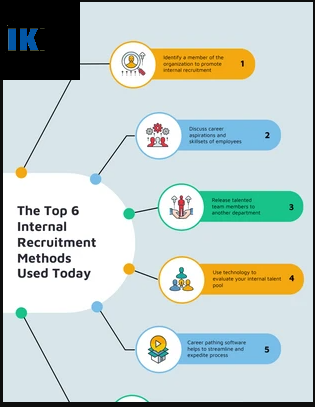
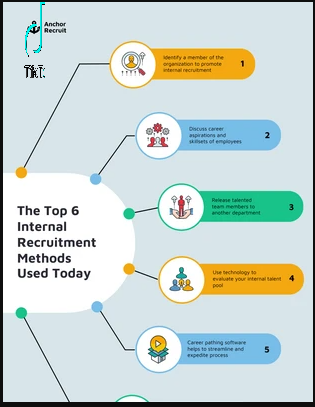
UI and robust

Changed region(s): [[0.0, 0.0, 0.2571, 0.2064]]

diff --git a/templates/displayImage.html b/templates/displayImage.html
@@ -4,14 +4,54 @@
     <meta charset="UTF-8">
     <meta name="viewport" content="width=device-width, initial-scale=1.0">
     <title>Document</title>
+    <style>
+        body {
+        font-family: sans-serif;
+        margin: 0;
+        padding: 20px;
+        }
+
+        h1 {
+        text-align: center;
+        margin-bottom: 20px;
+        }
+
+        .container {
+            min-height: 100vh; /* Set container to at least viewport height */
+            background: linear-gradient(to bottom, #333, #222); /* Subtle gradient */
+            color: #fff; /* Text color with good contrast */
+            padding: 20px;
+        }
+
+        .image-grid {
+        display: grid;
+        grid-template-columns: repeat(auto-fit, minmax(300px, 1fr));
+        grid-gap: 10px;
+        }
+
+        img {
+        width: 100%; /* Responsive sizing */
+        height: auto;
+        object-fit: cover; /* Maintain aspect ratio with cropping */
+        border-radius: 5px; /* Rounded corners */
+        box-shadow: 0 0 5px rgba(0, 0, 0, 0.1); /* Subtle shadow */
+        transition: transform 0.2s ease-in-out; /* Smooth hover effect */
+        }
+
+        img:hover {
+        transform: scale(1.05); /* Slight zoom on hover */
+        }
+    </style>
 </head>
 <body>
-    <img src="{{url_for('static', filename='/generatedTemplates/output.png')}}">
-    <img src="{{url_for('static', filename='/generatedTemplates/output2.png')}}">
-    <img src="{{url_for('static', filename='/generatedTemplates/output3.png')}}">
-    <img src="{{url_for('static', filename='/generatedTemplates/output4.png')}}">
-    <img src="{{url_for('static', filename='/generatedTemplates/output5.png')}}">
-    <img src="{{url_for('static', filename='/generatedTemplates/output6.png')}}">
-    <img src="{{url_for('static', filename='/generatedTemplates/output7.png')}}">
+    <div class="container">
+    <h1>The generated templates are as follows: </h1>
+ 
+    <div class="image-grid">
+        {% for image in images %}
+        <img src="{{url_for('static', filename='/generatedTemplates/' + image)}}">
+        {% endfor %}
+    </div>
+</div>
 </body>
 </html>

diff --git a/templates/fileUpload.html b/templates/fileUpload.html
@@ -4,12 +4,39 @@
     <meta charset="UTF-8">
     <meta name="viewport" content="width=device-width, initial-scale=1.0">
     <title>Upload</title>
+    <link href="https://cdn.jsdelivr.net/npm/bootstrap@5.3.3/dist/css/bootstrap.min.css" rel="stylesheet" integrity="sha384-QWTKZyjpPEjISv5WaRU9OFeRpok6YctnYmDr5pNlyT2bRjXh0JMhjY6hW+ALEwIH" crossorigin="anonymous">
+    <style>
+        .bg{
+            min-height: 100vh;
+            background: linear-gradient(to bottom, #333, #222); /* Darker gradient */
+            color: #fff; /* Light text color for contrast */
+            padding: 20px;
+        }
+
+        .container {
+            display: flex;
+            justify-content: center;
+            align-items: center; 
+            height: 500px; 
+            }
+
+            .centered-div {
+            width: 500px; 
+            }
+    </style>
 </head>
 <body>
-    <form action="/" method="post" enctype="multipart/form-data">
-        <input type="file" name="file"/>
-        <button type="submit">Submit</button>
-    </form>
-
+    <div class="bg">
+        <h1>Logomos</h1>
+        <h3>Welcome to Logomos</h3>
+        <div class="container centered-div">
+        <form action="/" method="post" enctype="multipart/form-data">
+            <label for="formFileLg" class="form-label">Upload a logo to continue</label>
+            <input class="form-control form-control-lg" type="file" name="file"/>
+            <button class="btn btn-primary" type="submit" style="padding-top: 10px; margin-top: 10px;">Submit</button>
+        </form>
+        </div>
+    </div>
+    <script src="https://cdn.jsdelivr.net/npm/bootstrap@5.3.3/dist/js/bootstrap.bundle.min.js" integrity="sha384-YvpcrYf0tY3lHB60NNkmXc5s9fDVZLESaAA55NDzOxhy9GkcIdslK1eN7N6jIeHz" crossorigin="anonymous"></script>
 </body>
 </html>

diff --git a/app.py b/app.py
@@ -1,9 +1,11 @@
 from flask import Flask, render_template, request, url_for, redirect
 import os
-from merger_fg_with_template import transformImageUpload
+from placingNoBG_onTemplates import overlay_rgba_on_rgb
 
 app = Flask(__name__)
 app.config["UPLOAD_FOLDER"] = "userUploadLOGO"
+output_file_name = []
+
 
 @app.route("/")
 def main():
@@ -16,20 +18,22 @@ def upload_file():
         filename = file.filename
         upload_path = os.path.join(app.config["UPLOAD_FOLDER"], filename)
         file.save(upload_path)
-        transformImageUpload(upload_path, "formatTemplates/1.PNG", "static/generatedTemplates/output.png")
-        transformImageUpload(upload_path, "formatTemplates/2.PNG", "static/generatedTemplates/output2.png")
-        transformImageUpload(upload_path, "formatTemplates/3.PNG", "static/generatedTemplates/output3.png")
-        transformImageUpload(upload_path, "formatTemplates/4.PNG", "static/generatedTemplates/output4.png")
-        transformImageUpload(upload_path, "formatTemplates/5.PNG", "static/generatedTemplates/output5.png")
-        transformImageUpload(upload_path, "formatTemplates/6.PNG", "static/generatedTemplates/output6.png")
-        transformImageUpload(upload_path, "formatTemplates/7.PNG", "static/generatedTemplates/output7.png")
+        templatePath = "formatTemplates"
+        a=1
+        for i in os.listdir(templatePath):
+            outputFolder = os.path.join("static/generatedTemplates", f"output{a}.png")
+            output_file_name.append(f"output{a}.png")
+            template = os.path.join(templatePath, i)
+            overlay_rgba_on_rgb(upload_path, template, outputFolder, x=5, y=5)
+            a+=1
+
         return redirect("/show")
 
 @app.route("/show")
 def show():
-    return render_template("displayImage.html", image_url="/generatedTemplates/output.png")
+    return render_template("displayImage.html", images=output_file_name)
 
 
 
 if __name__=="__main__":
-    app.run(host='0.0.0.0')
+    app.run(host='0.0.0.0', debug=True)

diff --git a/placingNoBG_onTemplates.py b/placingNoBG_onTemplates.py
@@ -1,0 +1,30 @@
+import cv2
+from script5_fg_bg import get_bg
+
+def overlay_rgba_on_rgb(logoFilePath, rgb_template_path, outputFolder, x=0, y=0):
+    rgba_overlay = get_bg(logoFilePath)
+    rgb_image = cv2.imread(rgb_template_path)
+    # rgba_overlay = cv2.imread(rgba_overlay_path, -1)
+    overlay_alpha = rgba_overlay[:, :, 3] / 255.0  # Normalize alpha channel (0.0 - 1.0)
+
+    # Convert RGB image to BGRA (for compatibility with OpenCV functions)
+    bgra_image = cv2.cvtColor(rgb_image, cv2.COLOR_RGB2RGBA)
+    # Use alpha blending to combine the images
+    for c in range(3):
+        bgra_image[:80, :80, c] = (1 - overlay_alpha) * bgra_image[:80, :80, c] + overlay_alpha * rgba_overlay[:, :, c]
+
+    # Convert back to RGB if desired
+    rgb_image_with_overlay = cv2.cvtColor(bgra_image, cv2.COLOR_RGBA2RGB)
+    cv2.imwrite(outputFolder, rgb_image_with_overlay)
+    return rgb_image_with_overlay
+
+
+
+
+if __name__=="__main__":
+    result_image = overlay_rgba_on_rgb("formatTemplates/1.PNG", "noBGOutput/test.png", "static/generatedTemplates/output__1.png", x=5, y=5)
+
+    # Display or save the result
+    cv2.imshow("Image with Overlay", result_image)
+    cv2.waitKey(0)
+    cv2.destroyAllWindows()

diff --git a/script5_fg_bg.py b/script5_fg_bg.py
@@ -24,13 +24,18 @@ def get_bg(filename):
     outputMask = np.where((mask == cv2.GC_BGD) | (mask == cv2.GC_PR_BGD), 0, 1)
     outputMask = (outputMask * 255).astype("uint8")
     output = cv2.bitwise_and(img, img, mask=outputMask)
+    output = cv2.resize(output, (80, 80))
+    tmp = cv2.cvtColor(output, cv2.COLOR_BGR2GRAY)
+    _,alpha = cv2.threshold(tmp,0,255,cv2.THRESH_BINARY)
+    b, g, r = cv2.split(output)
+    rgba = [b,g,r, alpha]
+    dst = cv2.merge(rgba,4)
+    cv2.imwrite("noBGOutput/test.png", dst)
+    print(dst.shape)
 
-    cv2.imwrite(f"output/only_logo_{filename.split('.')[0]}.png", output)
-    print(output.shape)
-
-    return output
+    return dst
 
 if __name__=="__main__":
-    output = get_bg("logo33.png")
+    output = get_bg("userUploadLOGO/logo230.jpeg")
     cv2.imshow("Before", output)
     cv2.waitKey(0)

diff --git a/merger_fg_with_template.py b/merger_fg_with_template.py
@@ -4,10 +4,10 @@ import numpy as np
 
 def transformImageUpload(logoFilepath, templateFilePath, outputFolder):
     bg_img = get_bg(logoFilepath)
-    output = cv2.resize(bg_img, (80, 80))
+    output = bg_img
     template1 = cv2.imread(templateFilePath)
 
-    coord = [0, 0, output.shape[0], output.shape[1]]
+    coord = [5, 5, 5+output.shape[0], 5+output.shape[1]]
 
     template1[coord[0]:coord[2], coord[1]:coord[3]] = output
     cv2.imwrite(outputFolder, template1)
